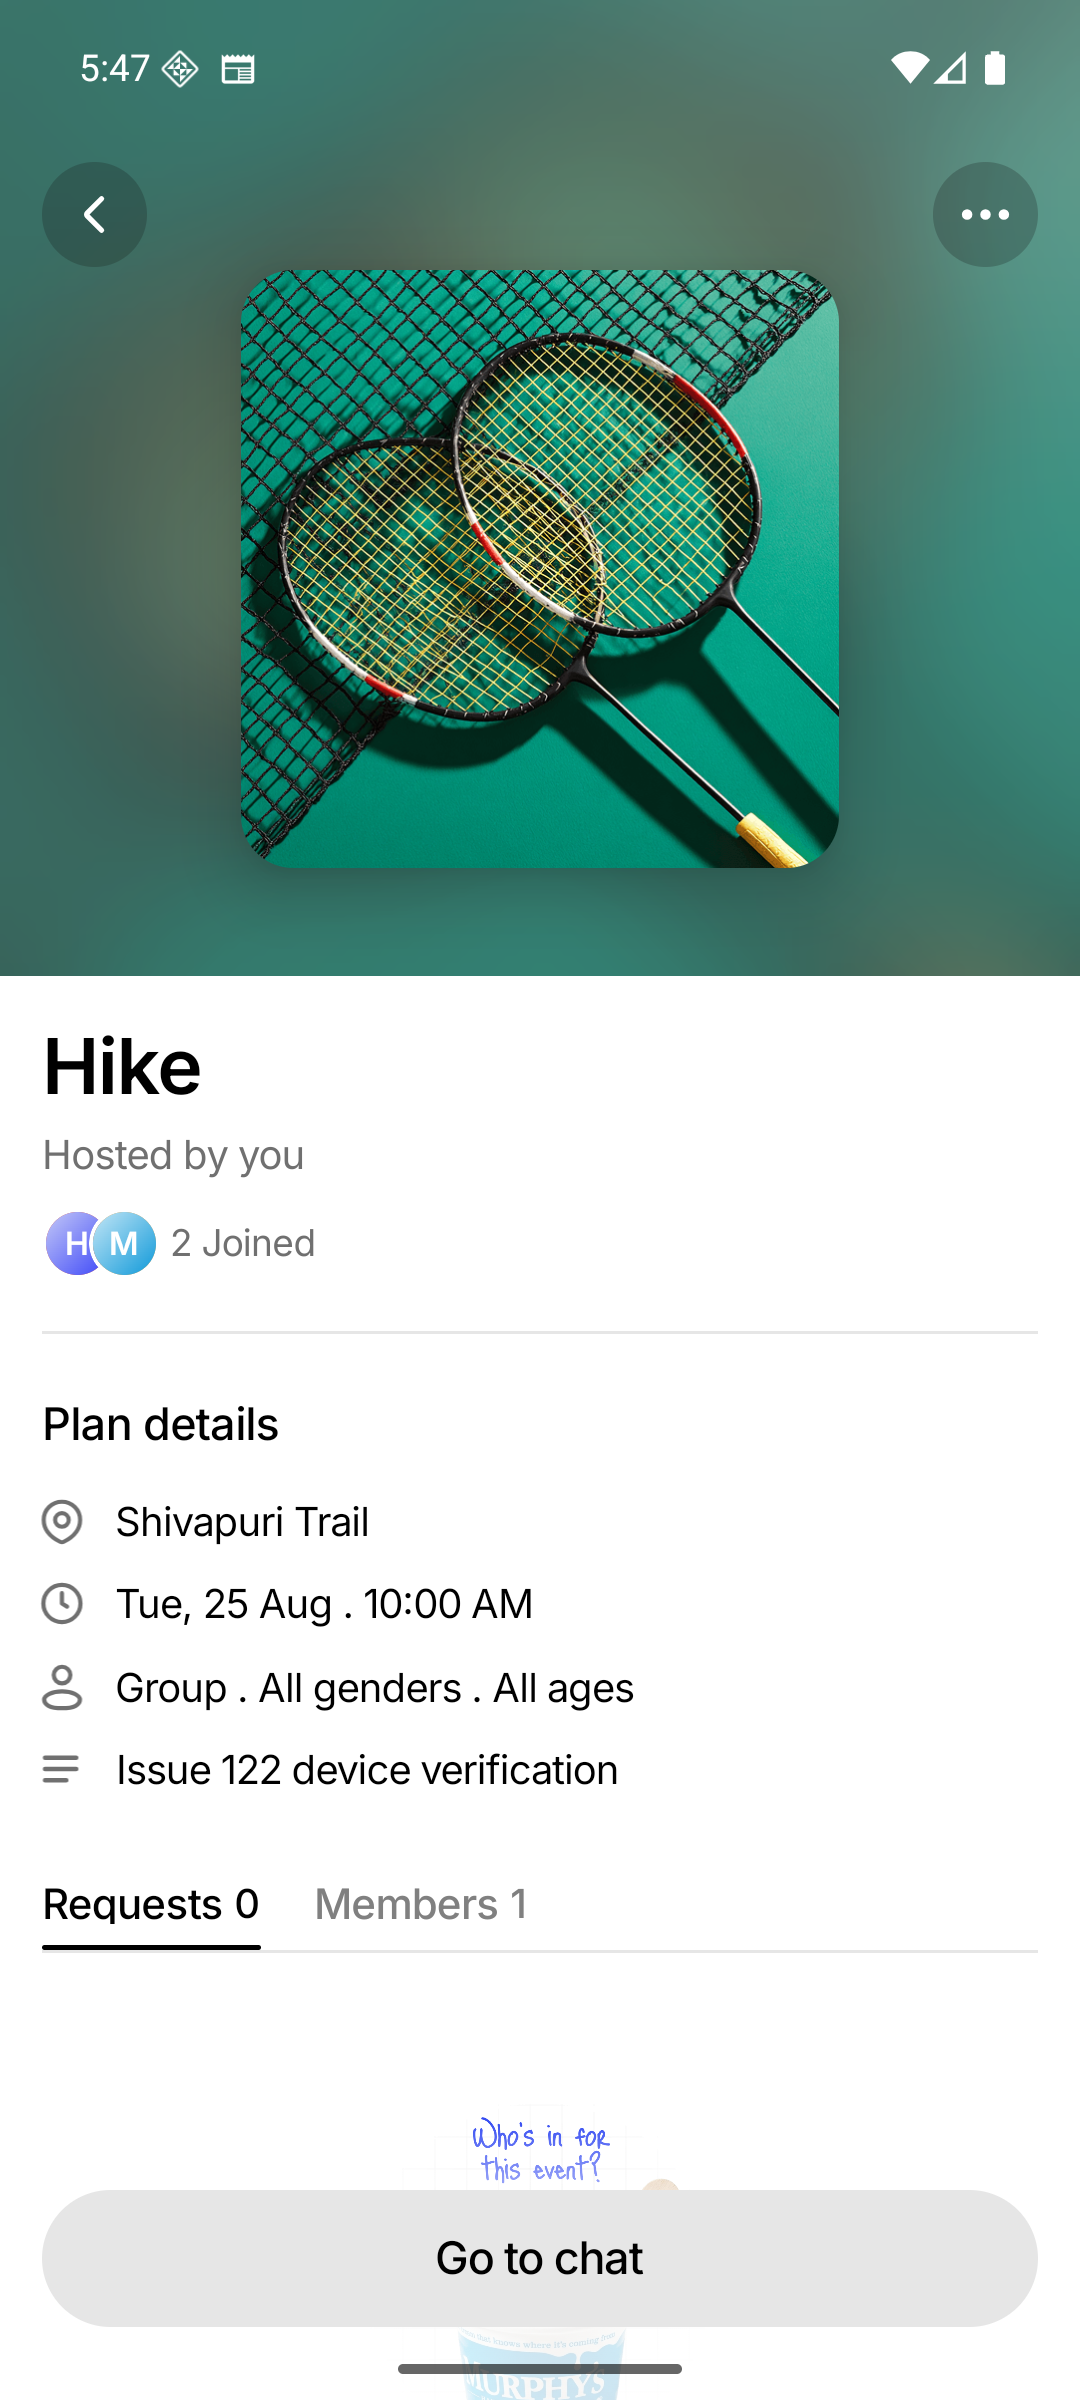
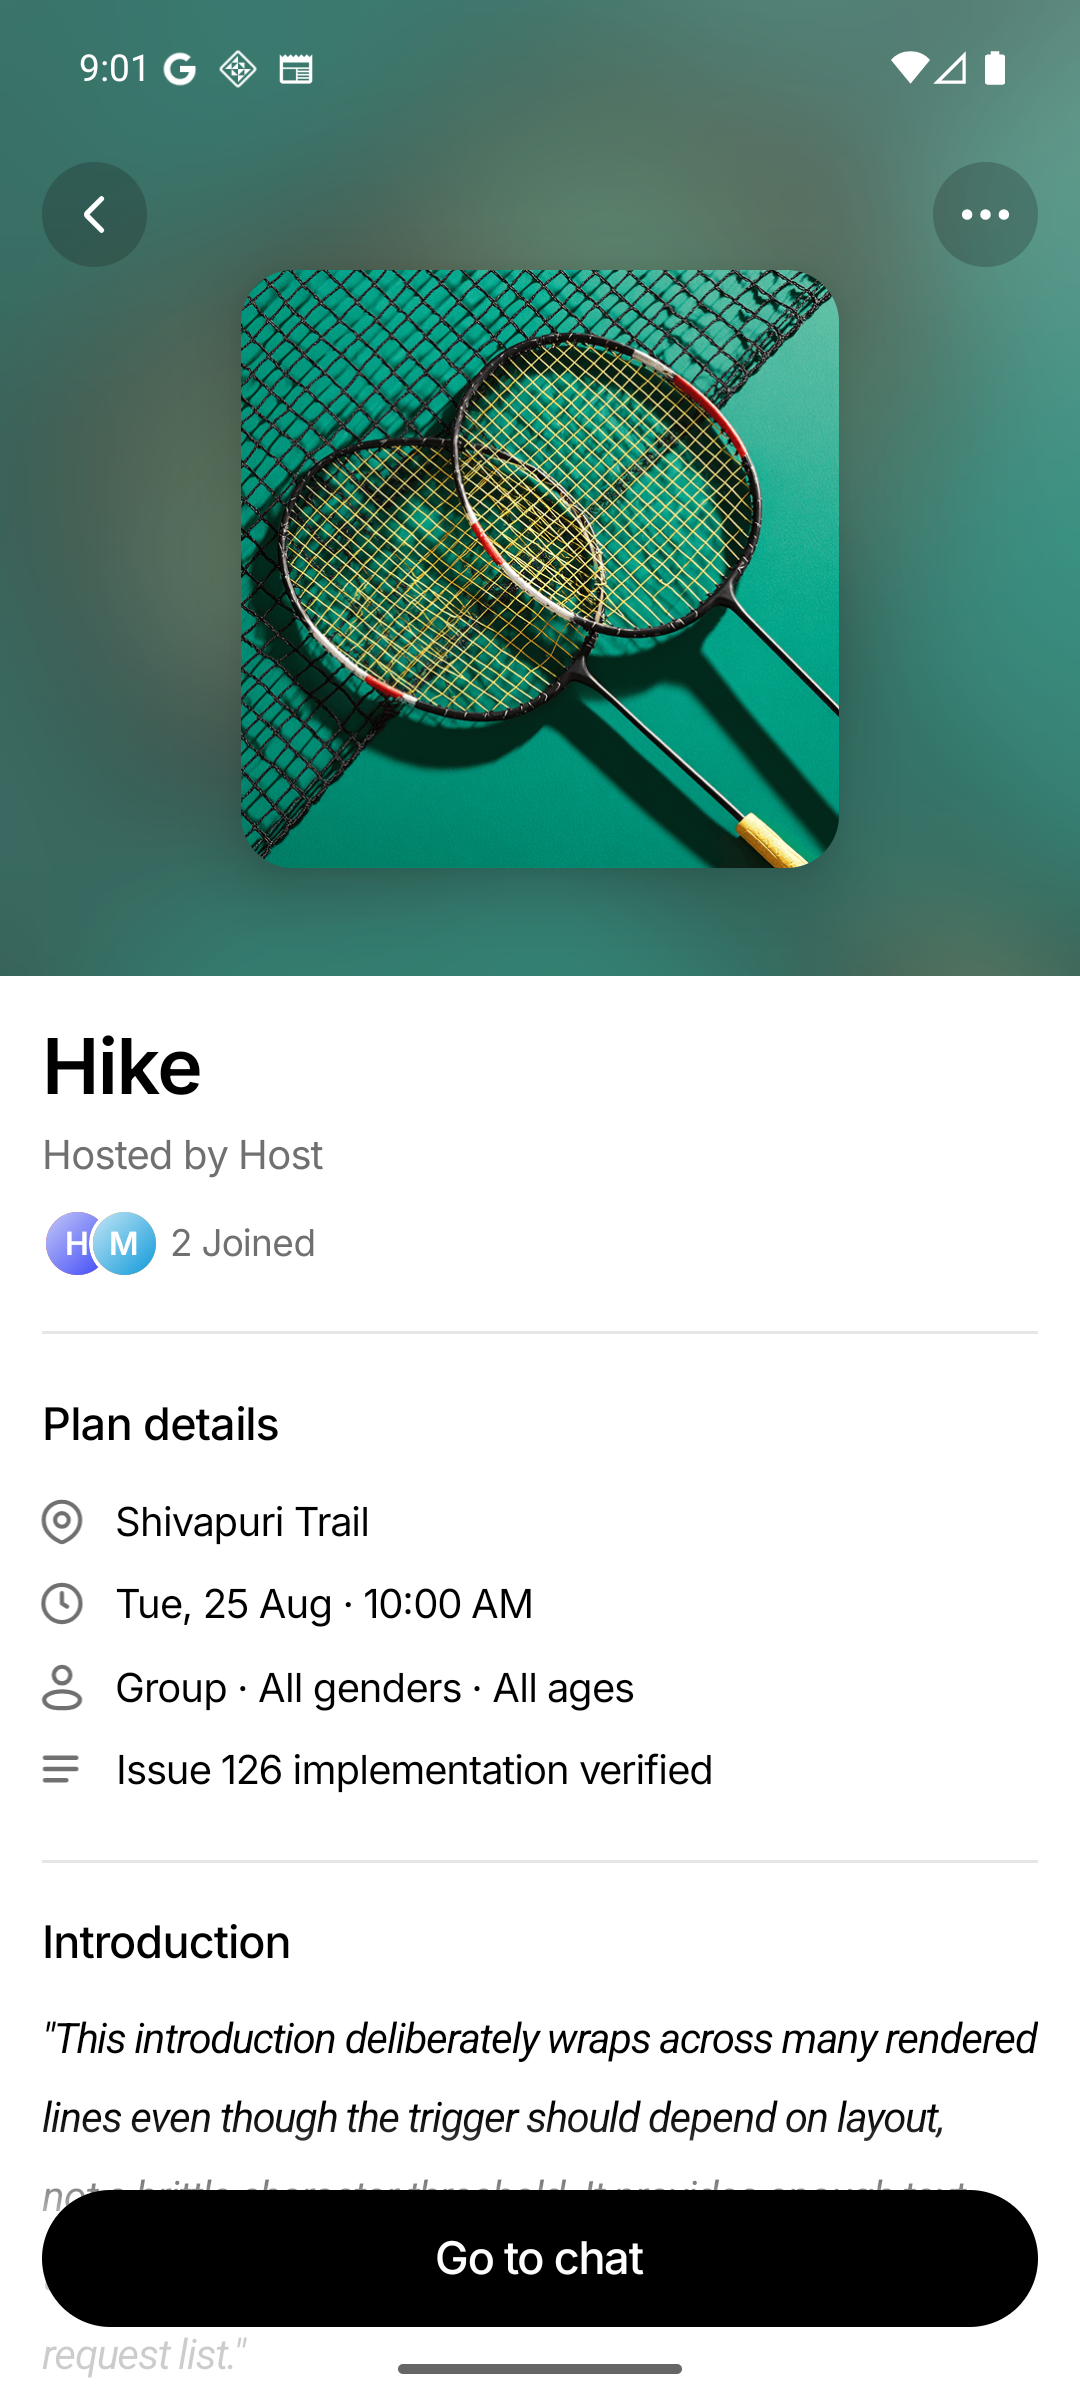
fix: use centered dots in event details

diff --git a/src/screens/__tests__/EventDetailsScreen.rendering.test.tsx b/src/screens/__tests__/EventDetailsScreen.rendering.test.tsx
@@ -372,7 +372,7 @@ describe('EventDetailsScreen Rendering Tests', () => {
     it('renders event time with date label', () => {
       const { getByText } = render(<EventDetailsScreen />);
 
-      const scheduleLine = `${formatEventDetailDateLabel(mockGroupEvent.eventDate)} . ${mockGroupEvent.time}`;
+      const scheduleLine = `${formatEventDetailDateLabel(mockGroupEvent.eventDate)} · ${mockGroupEvent.time}`;
       expect(getByText(scheduleLine)).toBeTruthy();
     });
 
@@ -382,7 +382,7 @@ describe('EventDetailsScreen Rendering Tests', () => {
       const { getByText } = render(<EventDetailsScreen />);
 
       expect(
-        getByText(`${formatEventDetailDateLabel(mockGroupEvent.eventDate)} . 7:30 PM`),
+        getByText(`${formatEventDetailDateLabel(mockGroupEvent.eventDate)} · 7:30 PM`),
       ).toBeTruthy();
     });
 
@@ -395,7 +395,7 @@ describe('EventDetailsScreen Rendering Tests', () => {
     it('renders audience information correctly for group event', () => {
       const { getByText } = render(<EventDetailsScreen />);
 
-      const audienceLine = 'Group . All genders . 18 to 35 years';
+      const audienceLine = 'Group · All genders · 18 to 35 years';
       expect(getByText(audienceLine)).toBeTruthy();
     });
 
@@ -410,7 +410,7 @@ describe('EventDetailsScreen Rendering Tests', () => {
 
       const { getByText } = render(<EventDetailsScreen />);
 
-      const audienceLine = '1:1 . All genders . 21 to 40 years';
+      const audienceLine = '1:1 · All genders · 21 to 40 years';
       expect(getByText(audienceLine)).toBeTruthy();
 
       // Restore the spy to avoid polluting other tests
@@ -1384,7 +1384,7 @@ describe('EventDetailsScreen Rendering Tests', () => {
 
       expect(
         getByText(
-          `${formatEventDetailDateLabel(mockGroupEvent.eventDate)} . ${mockGroupEvent.time}`,
+          `${formatEventDetailDateLabel(mockGroupEvent.eventDate)} · ${mockGroupEvent.time}`,
         ),
       ).toBeTruthy();
     });
@@ -1402,7 +1402,7 @@ describe('EventDetailsScreen Rendering Tests', () => {
 
       expect(
         getByText(
-          `${formatEventDetailDateLabel(mockSingleEvent.eventDate)} . ${mockGroupEvent.time}`,
+          `${formatEventDetailDateLabel(mockSingleEvent.eventDate)} · ${mockGroupEvent.time}`,
         ),
       ).toBeTruthy();
     });

diff --git a/report/issue-126-event-details-implementation.html b/report/issue-126-event-details-implementation.html
@@ -123,8 +123,8 @@
           </article>
 
           <article class="issue">
-            <div class="issue-copy"><div class="issue-head"><h3>2. Details punctuation</h3><span class="pass">Resolved</span></div><p>Event Details now renders locale-aware commas in the date and period separators between date/time and audience values. Event cards retain their compact middle-dot style.</p></div>
-            <div class="evidence"><figure><figcaption>Before</figcaption><img src="issue-126-assets/before/02-details-punctuation.png" alt="Event details before punctuation update" /></figure><figure><figcaption>After</figcaption><img src="issue-126-assets/after/02-details-punctuation.png" alt="Event details with comma and period separators" /></figure></div>
+            <div class="issue-copy"><div class="issue-head"><h3>2. Details punctuation</h3><span class="pass">Resolved</span></div><p>Event Details now renders locale-aware commas in the date and centered-dot separators between date/time and audience values. The centered dot is the only metadata separator used.</p></div>
+            <div class="evidence"><figure><figcaption>Before</figcaption><img src="issue-126-assets/before/02-details-punctuation.png" alt="Event details before the date-comma update" /></figure><figure><figcaption>After</figcaption><img src="issue-126-assets/after/02-details-punctuation.png" alt="Event details with a date comma and centered-dot separators" /></figure></div>
           </article>
 
           <article class="issue">

diff --git a/src/screens/__tests__/EventDetailsScreen.test.tsx b/src/screens/__tests__/EventDetailsScreen.test.tsx
@@ -60,7 +60,7 @@ describe('EventDetailsScreen', () => {
         maxAge: event.maxAge,
       });
 
-      expect(audienceLine).toBe('Group . All genders . 18 to 35 years');
+      expect(audienceLine).toBe('Group · All genders · 18 to 35 years');
     });
   });
 

diff --git a/src/constants/display.ts b/src/constants/display.ts
@@ -2,4 +2,4 @@
 export const EVENT_INFO_SEPARATOR = ' · ';
 
 /** Separator used only by the Event Details plan-information rows. */
-export const EVENT_DETAILS_INFO_SEPARATOR = ' . ';
+export const EVENT_DETAILS_INFO_SEPARATOR = EVENT_INFO_SEPARATOR;

diff --git a/src/utils/__tests__/eventDisplay.test.ts b/src/utils/__tests__/eventDisplay.test.ts
@@ -117,7 +117,7 @@ describe('eventDisplay', () => {
           minAge: 18,
           maxAge: 60,
         }),
-      ).toBe('Group . All genders . All ages');
+      ).toBe('Group · All genders · All ages');
     });
   });
 
